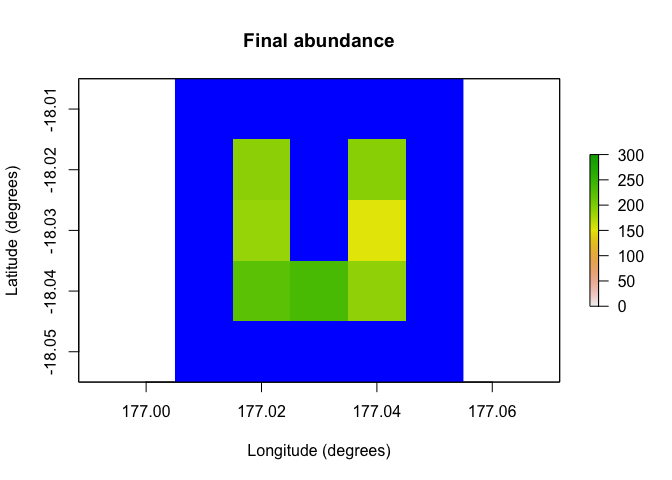
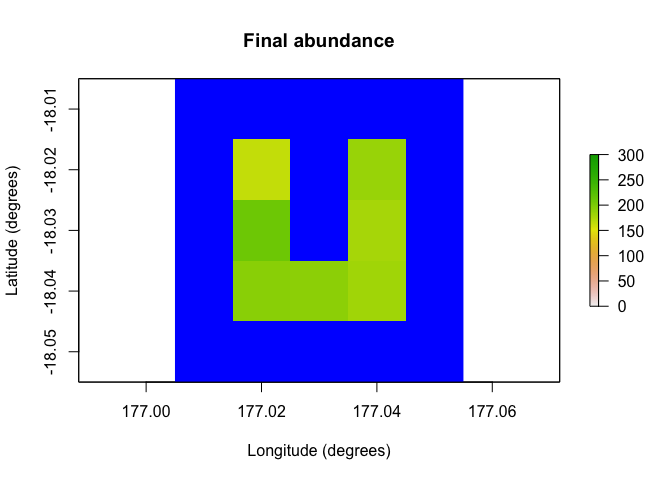
Added CITATION file

Changed region(s): [[0.3438, 0.2812, 0.625, 0.6875]]

diff --git a/README.md b/README.md
@@ -101,47 +101,47 @@ results <- population_simulator(pop_model)
 results # examine
 #> $all
 #> $all$abundance
-#> [1] 1036 1095 1205 1295 1363
+#> [1] 1072 1145 1194 1294 1299
 #> 
 #> $all$abundance_stages
 #> $all$abundance_stages[[1]]
-#> [1] 622 665 711 765 826
+#> [1] 646 718 693 794 742
 #> 
 #> $all$abundance_stages[[2]]
-#> [1] 414 430 494 530 537
+#> [1] 426 427 501 500 557
 #> 
 #> 
 #> 
 #> $abundance
 #>      [,1] [,2] [,3] [,4] [,5]
-#> [1,]   51   86  123  177  191
-#> [2,]  105   99  142  166  192
-#> [3,]  114  148  173  165  185
-#> [4,]  172  199  192  184  151
-#> [5,]  196  181  177  180  221
-#> [6,]  192  177  190  219  234
-#> [7,]  206  205  208  204  189
+#> [1,]   45   95  109  151  164
+#> [2,]  102  141  169  192  184
+#> [3,]  141  190  185  212  209
+#> [4,]  155  148  175  153  177
+#> [5,]  186  169  165  200  193
+#> [6,]  227  206  194  199  191
+#> [7,]  216  196  197  187  181
 #> 
 #> $abundance_stages
 #> $abundance_stages[[1]]
 #>      [,1] [,2] [,3] [,4] [,5]
-#> [1,]   30   54   76   98  123
-#> [2,]   72   58   92   91  124
-#> [3,]   74   87  104   99  109
-#> [4,]   92  126  102  118   96
-#> [5,]  119  114  101  109  130
-#> [6,]  122  103  111  135  135
-#> [7,]  113  123  125  115  109
+#> [1,]   28   62   62   92   99
+#> [2,]   55   96   95  123  103
+#> [3,]   77  110  118  134  124
+#> [4,]  104   79  117   96   95
+#> [5,]  114  107   80  117  106
+#> [6,]  140  136  110  125  103
+#> [7,]  128  128  111  107  112
 #> 
 #> $abundance_stages[[2]]
 #>      [,1] [,2] [,3] [,4] [,5]
-#> [1,]   21   32   47   79   68
-#> [2,]   33   41   50   75   68
-#> [3,]   40   61   69   66   76
-#> [4,]   80   73   90   66   55
-#> [5,]   77   67   76   71   91
-#> [6,]   70   74   79   84   99
-#> [7,]   93   82   83   89   80
+#> [1,]   17   33   47   59   65
+#> [2,]   47   45   74   69   81
+#> [3,]   64   80   67   78   85
+#> [4,]   51   69   58   57   82
+#> [5,]   72   62   85   83   87
+#> [6,]   87   70   84   74   88
+#> [7,]   88   68   86   80   69
 raster::plot(region$raster_from_values(results$abundance[,5]),
              main = "Final abundance", xlab = "Longitude (degrees)", 
              ylab = "Latitude (degrees)", zlim = c(0, 300), colNA = "blue")
